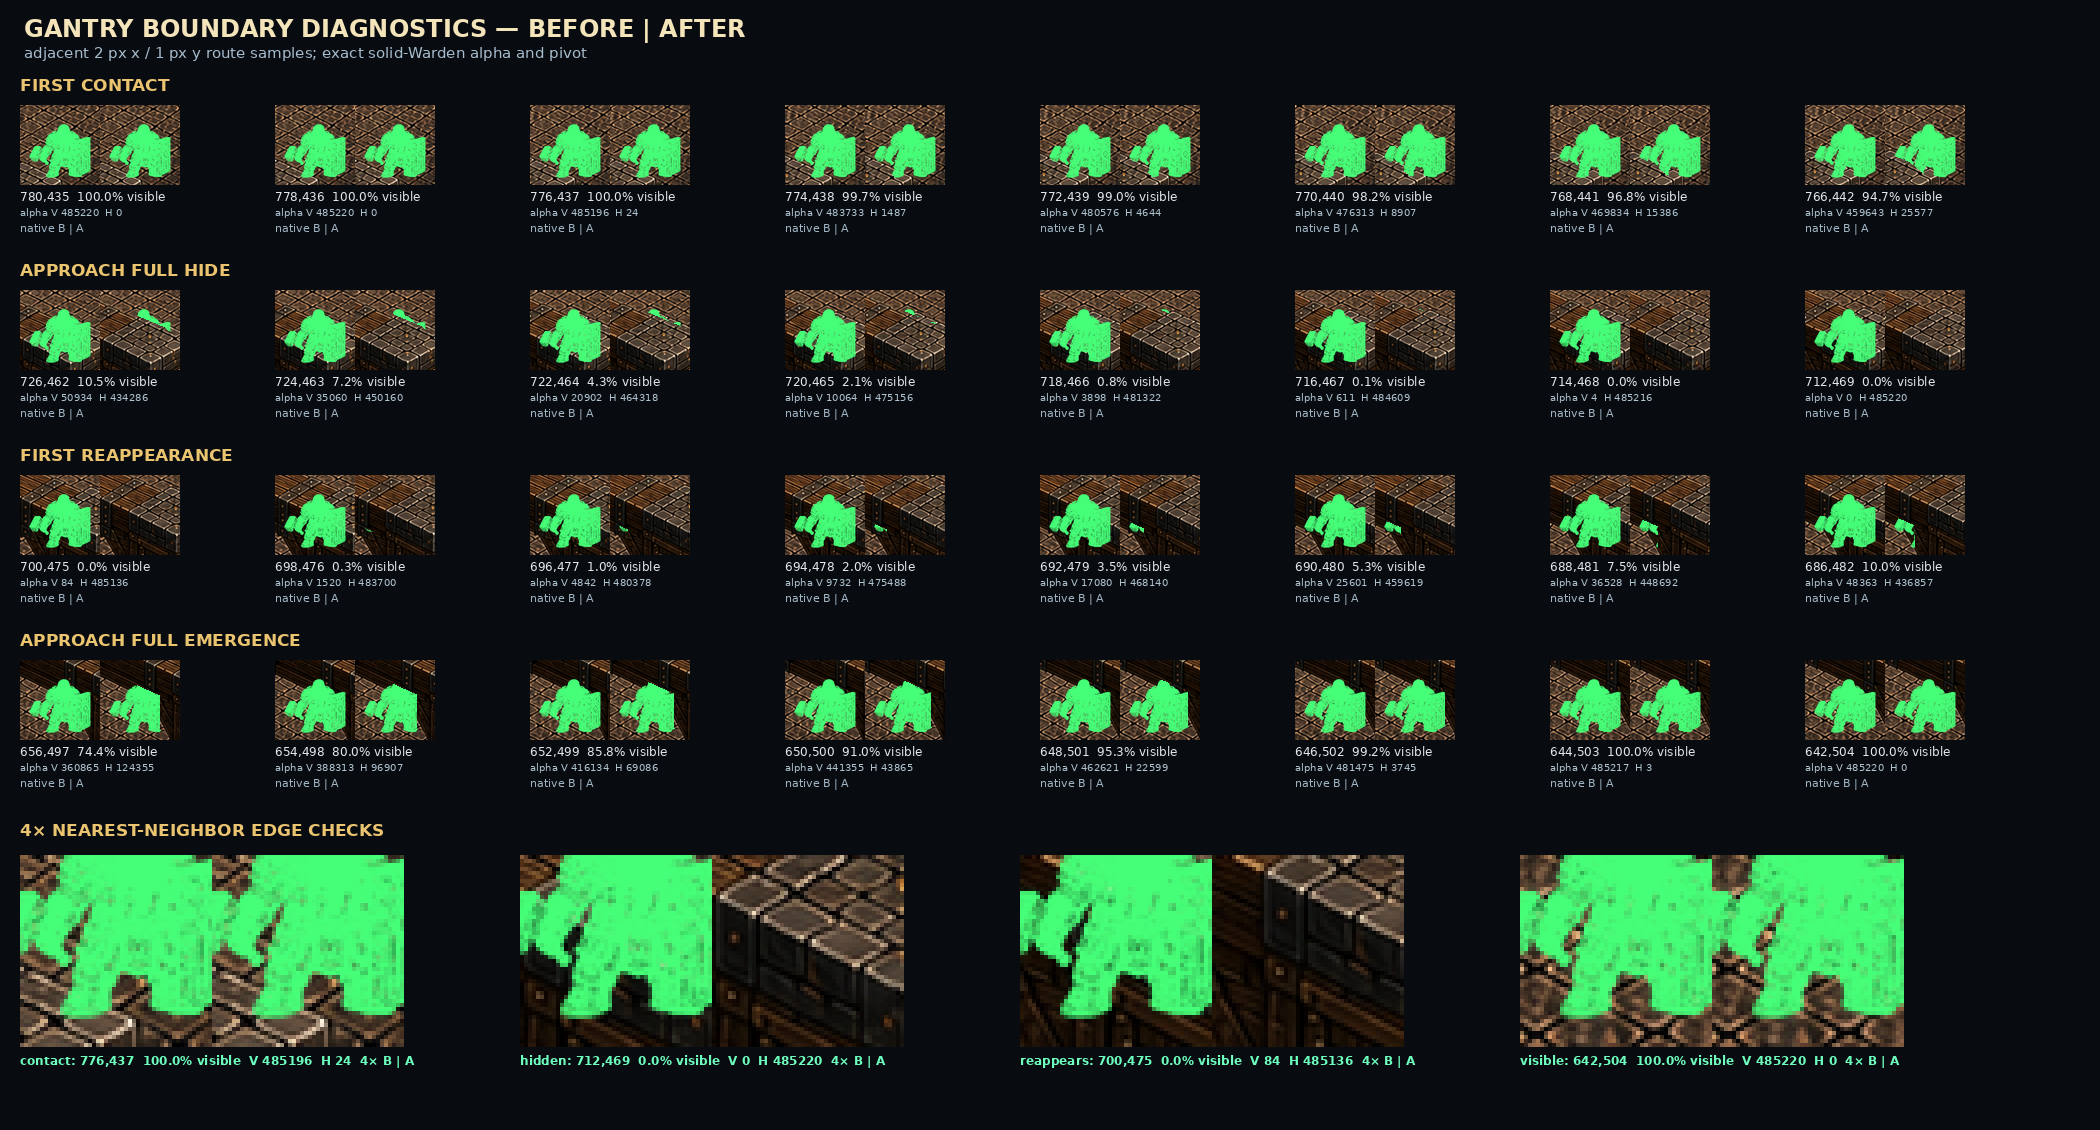
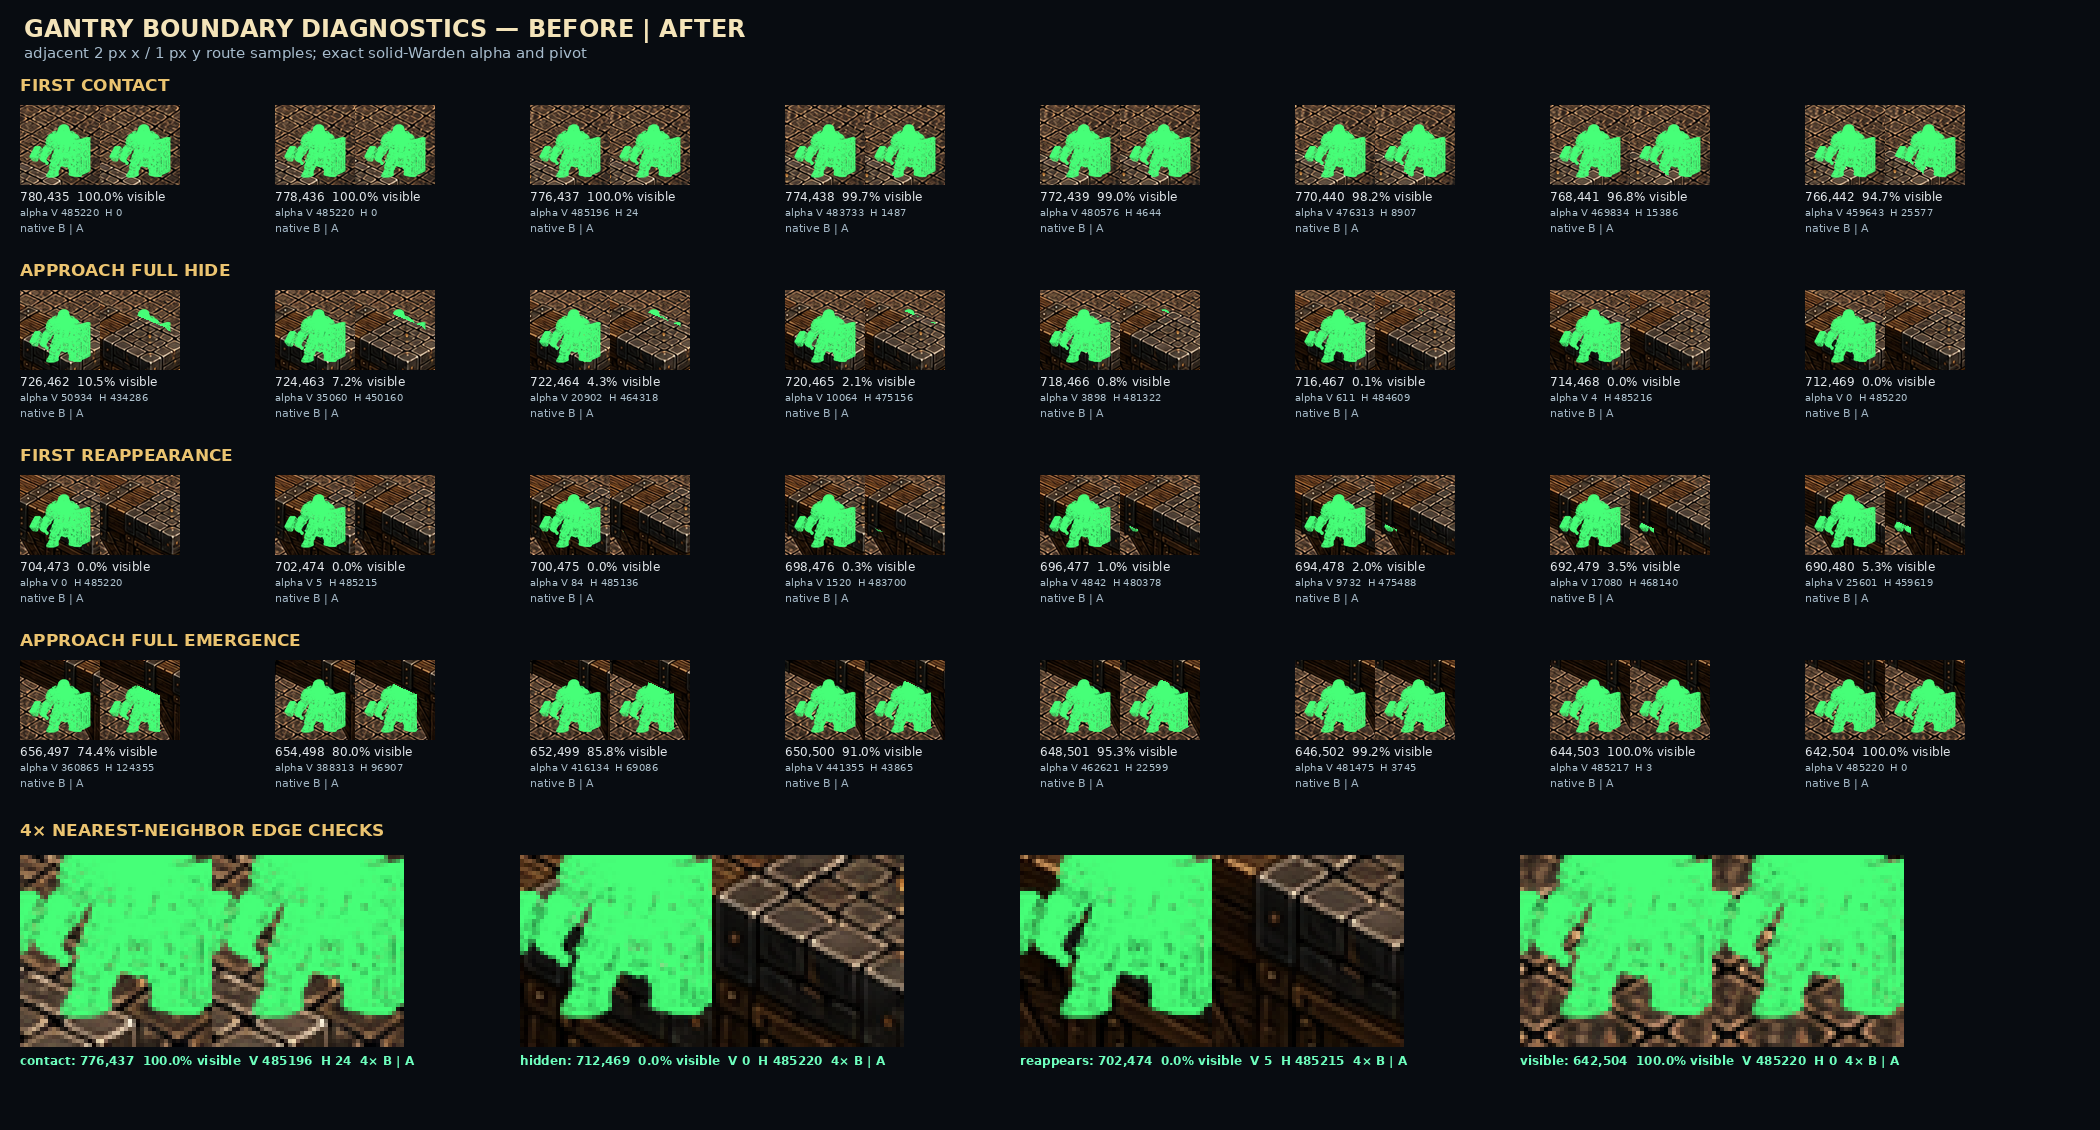
fix: bind exact gantry reappearance onset

diff --git a/assets/game-art/layered-map-poc/build_poc.py b/assets/game-art/layered-map-poc/build_poc.py
@@ -156,7 +156,7 @@ def make_gantry_boundary_diagnostics(plate:Image.Image,overlay:Image.Image)->Ima
  groups=[
   ('FIRST CONTACT',[(780-2*i,435+i) for i in range(8)]),
   ('APPROACH FULL HIDE',[(726-2*i,462+i) for i in range(8)]),
-  ('FIRST REAPPEARANCE',[(700-2*i,475+i) for i in range(8)]),
+  ('FIRST REAPPEARANCE',[(704-2*i,473+i) for i in range(8)]),
   ('APPROACH FULL EMERGENCE',[(656-2*i,497+i) for i in range(8)]),
  ]
  board=Image.new('RGBA',(2100,1130),(8,12,17,255));panel_header(board,(24,14),'GANTRY BOUNDARY DIAGNOSTICS — BEFORE | AFTER','adjacent 2 px x / 1 px y route samples; exact solid-Warden alpha and pivot')
@@ -166,7 +166,7 @@ def make_gantry_boundary_diagnostics(plate:Image.Image,overlay:Image.Image)->Ima
   for i,p in enumerate(samples):
    pair,h,v=boundary_pair(plate,overlay,subject,pivot,p,80,1);x=20+i*255;board.alpha_composite(pair,(x,y))
    pct=100*v/(h+v);d.text((x,y+84),f'{p[0]},{p[1]}  {pct:.1f}% visible',font=font(12),fill=(225,230,234,255));d.text((x,y+101),f'alpha V {v}  H {h}',font=font(10),fill=(176,196,208,255));d.text((x,y+116),'native B | A',font=font(11),fill=(160,180,195,255))
- critical=[('contact',(776,437)),('hidden',(712,469)),('reappears',(700,475)),('visible',(642,504))]
+ critical=[('contact',(776,437)),('hidden',(712,469)),('reappears',(702,474)),('visible',(642,504))]
  y=855;d.text((20,y-35),'4× NEAREST-NEIGHBOR EDGE CHECKS',font=font(17,True),fill=(235,196,112,255))
  for i,(label,p) in enumerate(critical):
   pair,h,v=boundary_pair(plate,overlay,subject,pivot,p,48,4);x=20+i*500;board.alpha_composite(pair,(x,y))
@@ -264,7 +264,7 @@ def build(out_root:Path)->list[Path]:
   'layerOrder':['environment-base','world-rings-behind-structure','world-effects-behind-structure','world-subjects-behind-structure','structure-foreground-artifact','world-rings-in-front','world-effects-in-front','world-subjects-in-front','screen-focus-indicators','hud'],
   'foregroundArtifacts':[
    {'id':'entrance-shell','alpha':'straight','transparentRgb':[0,0,0],'activation':{'source':'presentation-route-state','routeSegment':'entrance-aperture','states':['inside','aperture','outside']},'routeBehavior':'fully-visible-aperture','behindZone':'none-for-route-subjects','insideZone':'aperture-subject-remains-visible','frontZone':'open-road','affectedClasses':['off-route-world-subject','world-ring','world-effect'],'exemptClasses':['screen-focus-indicator','hud'],'sourceMask':'sources/entrance-shell-mask.png','evidence':['solid-proxy-traversal.png','calibration-card-traversal.png','foreground-artifact-isolation.png']},
-   {'id':'gantry-shell','alpha':'straight','transparentRgb':[0,0,0],'activation':{'source':'presentation-route-state','routeSegment':'gantry-crossing','states':['upper-terrace','behind-gantry','defended-plaza']},'routeBehavior':'progressive-architectural-occlusion','behindZone':{'firstContact':[776,437],'fullyHiddenAt':[712,469]},'insideZone':{'fullyHiddenAt':[712,469],'reappearanceStarts':[700,475]},'frontZone':{'fullyVisibleFrom':[642,504]},'affectedClasses':['world-subject','world-ring','world-effect'],'exemptClasses':['screen-focus-indicator','hud'],'sourceMask':'sources/gantry-shell-mask.png','evidence':['gantry-boundary-diagnostics.png','solid-proxy-traversal.png','calibration-card-traversal.png','production-sprite-traversal.png']}],
+   {'id':'gantry-shell','alpha':'straight','transparentRgb':[0,0,0],'activation':{'source':'presentation-route-state','routeSegment':'gantry-crossing','states':['upper-terrace','behind-gantry','defended-plaza']},'routeBehavior':'progressive-architectural-occlusion','behindZone':{'firstContact':[776,437],'fullyHiddenAt':[712,469]},'insideZone':{'fullyHiddenAt':[712,469],'reappearanceStarts':[702,474]},'frontZone':{'fullyVisibleFrom':[642,504]},'affectedClasses':['world-subject','world-ring','world-effect'],'exemptClasses':['screen-focus-indicator','hud'],'sourceMask':'sources/gantry-shell-mask.png','evidence':['gantry-boundary-diagnostics.png','solid-proxy-traversal.png','calibration-card-traversal.png','production-sprite-traversal.png']}],
   'subjects':{'warden':{'nominalHeight':56,'pivot':[56,66]},'raider':{'nominalHeight':44,'pivot':[40,54]}},
   'presentationLighting':{'raider':'warm entrance adaptation plus contact shadow and hostile world ring','warden':'bounded brightness/contrast adaptation plus contact shadow and allied world ring','baseSpriteGeometryChanged':False},
   'nonClaims':['runtime integration','simulation authority','HUD approval','final animation']}
